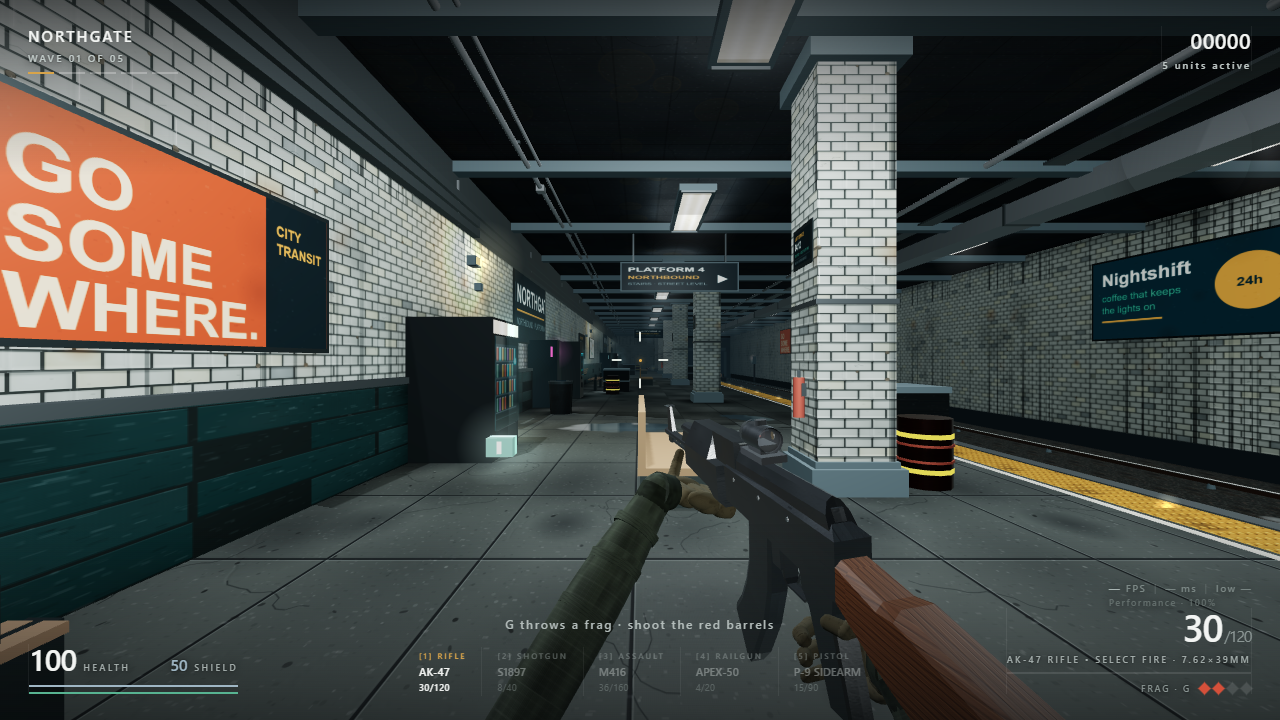
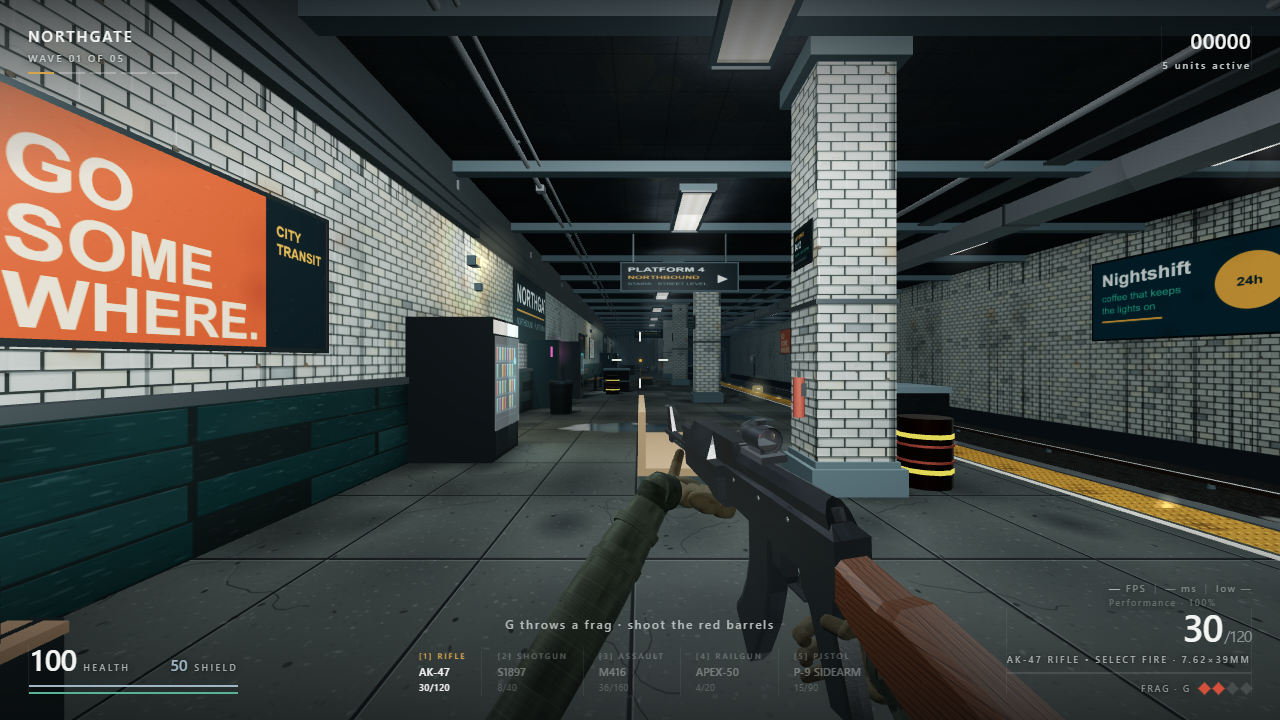
Update visual preview renders and document real-time lighting overhaul

Changed region(s): [[0.3438, 0.4583, 0.4375, 0.6722], [0.5312, 0.3972, 0.5938, 0.55], [0.5938, 0.55, 0.625, 0.5806]]

diff --git a/README.md b/README.md
@@ -56,6 +56,22 @@ Touch devices get a floating joystick, look zone and a thumb cluster with the sa
 ## Hands, muzzle sockets and smoke update
 
 - **Muzzle sockets.** Every weapon carries an empty at its barrel tip (`userData.muzzle`, `updateMuzzleTransform` in `js/weapons.js`). Because it is a child of the weapon group it already carries every layer of view-model animation (sway, bob, sprint, ADS, recoil, reload, inspect, the switch drop). The view model is drawn in its own scene, so the socket is carried into the station through the screen: the pixel the muzzle occupies is unprojected through the world camera 0.65 m from the eye. Tracers, the world muzzle light and the smoke all start there.
+- **Auto quality could only go down.** `adaptQuality` in `js/performance.js` had exactly one tier change in it, `setQualityTier(qualityTier-1)`, and `applyQuality` starts `auto` at Balanced. Since `postActive` is only true on Ultra, a machine that could easily afford it never got there, and anyone who never opened the settings drawer played with no bloom, no occlusion, no lit haze, no grade and no wet reflections. It now climbs as well as falls. The ceiling it climbs from cannot be read off `QUALITY[].scale`, because `setRenderScale` also clamps to the device pixel ratio and to a pixel budget — on a 1x display the scale sits at 1 while the tier asks for 1.25, so a `renderScale >= QUALITY[tier].scale` test never comes true and the tier starves. It asks by trying instead, and treats a call that changed nothing as the ceiling. The tier waits on a 25 s fuse against the scale's 15 s so the two cannot chase each other.
+
+- **The only shadow-casting light cast nothing.** `sunKey` is the one real-time shadow in the game and it was broken twice over. Its frustum, bias and range were all set on `shadow.camera`, but r128's `LightShadow.updateMatrices` never calls `updateProjectionMatrix` and only the spot and point subclasses do it themselves, so the camera kept `DirectionalLightShadow`'s default 10x10 box and 0.5-500 depth range and every value in the file was inert. It also sat at y 9, above the 19x84 m ceiling slab at y 5.45-5.79 that `add()` gives `castShadow`, so everything below it was in the roof's shadow. It now sits at fixture height under the slab, its projection is actually updated, and the frustum is refit to 12x12 with a 0.5-16 range so 2048 texels have something to spend. Its intensity drops 0.58 to 0.30 in the same edit: that number was tuned while the light was reaching nothing, and unblocking it without rebalancing would double up on the bake.
+
+- **Nothing that moves cast a shadow.** `js/enemies.js` contained no shadow flag at all. The mesh builder now sets `castShadow` and `receiveShadow` on the shells, and skips anything on a `MeshBasicMaterial` — the eye, core and shield quads have no light to lose and would throw solid black cut-outs.
+
+- **Glass was chrome.** `M.glass` was `metalness .85` on a dielectric, so three stripped almost all the diffuse and tinted the specular with the base colour: every train window, cab screen, vending front and kiosk panel rendered as dark teal chrome. Metalness 0, a pale tint and `envMapIntensity 1.2` let the environment map carry it instead.
+
+- **Lit haze.** The tunnel is dark and full of strip lights, and the only thing standing in for air was a pair of billboarded cones at 6% opacity plus an exponential fog that tints but never glows. `renderVolume` in `js/core.js` marches the volume: for each pixel it walks from the eye to whatever the depth prepass hit, asking the four nearest ceiling fixtures how much light reaches each point in the air. The lamps are strips behind a diffuser pointing down, so each is modelled as a cone about its own downward axis rather than as a bare point — that is what makes a beam instead of a ball of glow, and why it needs no shadow map, which matters because the fixtures are not the shadow-casting light. Marching stops at scene depth, so a beam is cut off by the pillar in front of it, and the ray start is dithered per pixel or sixteen steps band into slices. The composite adds it rather than multiplying: air in a beam emits toward the eye, it does not tint what is behind it.
+
+- **Grade.** The composite ends on saturation, a gamma, a smoothstep S-curve for the toe and shoulder, and a split tone that keeps the station cold while the sodium lamps and signage stay warm.
+
+- **Ambient occlusion.** The station's static surfaces already carry occlusion baked into their light maps by `bakeSurface`, but nothing that moves did: enemies, gibs, the barrels and the view model met the floor with no darkening where they touched it, which is the plainest tell that an image is synthetic. `renderAODepth` and `renderAO` in `js/core.js` add it in screen space at the Ultra tier. Depth comes from its own half-resolution prepass rather than from `postTarget`, because that target is multisampled and a multisampled depth attachment cannot be sampled; the prepass writes depth only and hides points, sprites and anything transparent first, or the override material would draw them solid and they would occlude the world behind them. View-space normals are rebuilt from the derivatives of the reconstructed position, so there is no normal buffer either. Twelve samples on a golden-angle hemisphere, rotated per pixel and pulled in toward the origin so most of them test the near contact, then a separable blur. The composite folds it in before the glow is added and lets it go as a pixel gets bright, so a lamp does not dim because it sits in a corner. Measured at 640x360 on a 1280x720 frame it darkens about a fifth of the pixels and leaves flat walls alone.
+
+- **Resolve grading.** The composite also runs an unsharp mask against a four-tap cross before the glow is added, which is what makes the detail in the tile, concrete and train normal maps read as surface rather than as texture, and adds sensor grain weighted into the shadows, which breaks up the flat gradients the fog otherwise bands down the tunnel. Both are part of the post pass, so both are Ultra only.
+
 - **Smoke.** Propellant smoke is emitted from the socket and then belongs to the station: one instanced mesh (`js/weapons.js`, `MZ_SMOKE_MAX` particles, one draw call) of billboards that drag to a stop, expand, rise, wander on turbulence and thin out, lit warm by the flash for the first tenth of a second (cyan for the rail). Turning or walking after a shot leaves the trail hanging where the barrel was. Density depends on the weapon and on barrel heat: sustained fire thickens the bursts and a hot barrel breathes thin wisps between shots. Aiming thins the cloud so the sight stays usable.
 - **Hands.** `js/hands.js` rebuilds both hands on every weapon after the models load: real-scale gloved hands whose fingers are wrapped numerically around each weapon's contact volumes (a finger curls joint by joint until it meets the grip, the palm is pushed out of the grip, the trigger finger and thumb are aimed at their rest points), so nothing clips. Each weapon has its own support hold: rear handguard for the rifle, pump for the shotgun (the hand rides the pump), a stubby vertical foregrip on the SMG, and a palm-up chassis hold under the railgun's rails. Bars and grips are held in the fingers rather than the middle of the palm: the knuckle line sits just past the contact, so the fingers close evenly round the surface instead of hooking over it, and the firing hand sits low enough on the grip for the thumb to wrap the backstrap under the receiver. Each hand owns one sleeve: a tapered forearm that starts at the wrist and runs, in view space, down and back toward the player until it has left the bottom of the frame, so no elbow or upper arm is ever drawn (a real arm cannot reach a weapon held this far from the eye). Reloads, inspection, the trigger pull and the pump are animated on the fitted poses and blended, so an interrupted reload never snaps.
 - **Aiming.** When aimed, the carbine, shotgun and SMG come in close (`adsZ` in the weapon table puts the sight 18–30 cm from the eye) and the view-model camera tightens by 42 % (`HD_ADS_TIGHTEN` in `js/hands.js`), so the sight fills about a fifth of the frame like a real sight at eye relief. The carbine's holographic sight is a thin matte hood with nearly clear glass, a shaded rim and a crisp 512 px ring-and-dot reticle; the SMG's red dot is a hollow tube that is looked through; the shotgun is aimed through a standing rear leaf over a front bead. That sight line already ran down the middle of the screen, but in bare steel it read as nothing at all against a dark platform, so it carries tritium the way a real ghost ring does: a lamp in the bead and one either side of the notch, all three level and the bead standing on the point of impact (`cfg.sights` in `js/models.js`). The railgun's scope overlay is unchanged.
